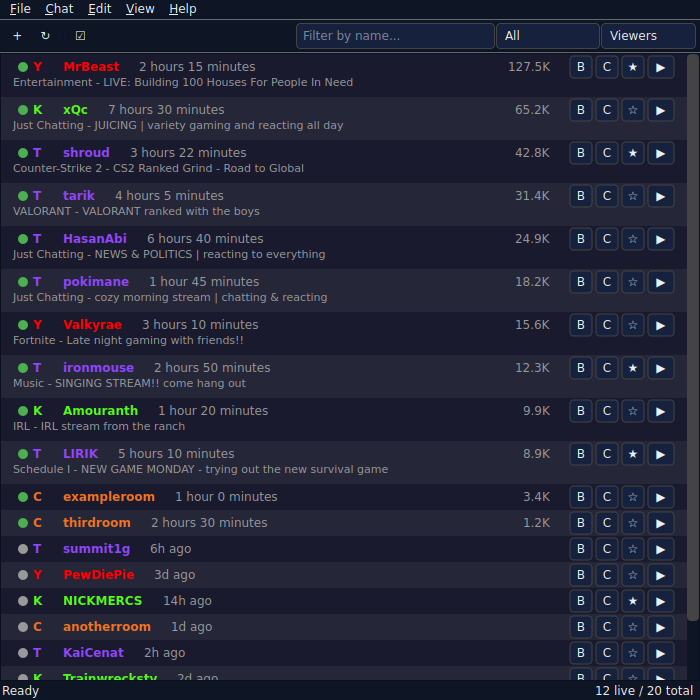
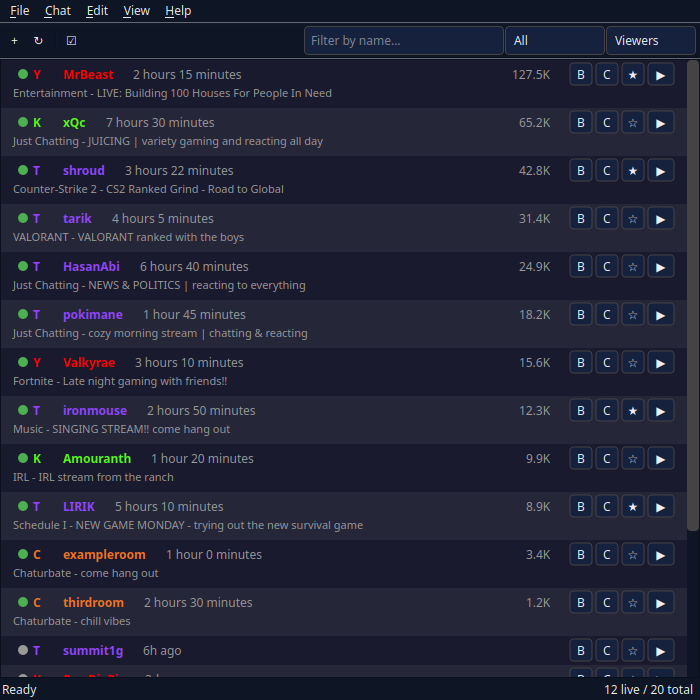
Fix inconsistent row heights: add title/game to Chaturbate sample channels

diff --git a/scripts/capture_screenshots.py b/scripts/capture_screenshots.py
@@ -99,7 +99,8 @@ def create_sample_data() -> list[tuple[Channel, Livestream]]:
         (
             Channel("exampleroom", StreamPlatform.CHATURBATE, "exampleroom"),
             Livestream(
-                channel=None, live=True, title="", viewers=3_412,
+                channel=None, live=True, title="come hang out",
+                game="Chaturbate", viewers=3_412,
                 start_time=now - timedelta(hours=1),
             ),
         ),
@@ -171,7 +172,8 @@ def create_sample_data() -> list[tuple[Channel, Livestream]]:
         (
             Channel("thirdroom", StreamPlatform.CHATURBATE, "thirdroom"),
             Livestream(
-                channel=None, live=True, title="", viewers=1_205,
+                channel=None, live=True, title="chill vibes",
+                game="Chaturbate", viewers=1_205,
                 start_time=now - timedelta(hours=2, minutes=30),
             ),
         ),
@@ -497,46 +499,52 @@ def main():
     window._initial_check_complete = True
     window.resize(700, 700)
     window.show()
-    window.refresh_stream_list()
-    # Force QListView to compute correct sizeHints after initial layout
-    window.stream_list.scheduleDelayedItemsLayout()
     qt_app.processEvents()
-    qt_app.processEvents()  # Second pass to finalize layout
+
+    def _force_relayout():
+        """Force full relayout: invalidate caches, scroll through all rows, re-layout."""
+        if window._stream_delegate:
+            window._stream_delegate.invalidate_size_cache()
+        window.refresh_stream_list()
+        qt_app.processEvents()
+        # Scroll to bottom and back to force sizeHint calculation for ALL rows
+        # (QListView only computes sizeHints for visible/scrolled-to rows)
+        sb = window.stream_list.verticalScrollBar()
+        sb.setValue(sb.maximum())
+        qt_app.processEvents()
+        sb.setValue(0)
+        qt_app.processEvents()
+        # Now invalidate and re-layout with all sizeHints properly computed
+        if window._stream_delegate:
+            window._stream_delegate.invalidate_size_cache()
+        window.stream_list.scheduleDelayedItemsLayout()
+        qt_app.processEvents()
+        window.refresh_stream_list()
+        qt_app.processEvents()
 
     def do_captures():
         print("\nCapturing screenshots...")
 
         # ── 1. Main window - dark theme ──
+        _force_relayout()
         capture_screenshot(window, "main-window-dark.png")
 
         # ── 2. Main window - light theme ──
         apply_theme(settings, ThemeMode.LIGHT, qt_app, window)
-        window.refresh_stream_list()
-        qt_app.processEvents()
+        _force_relayout()
         capture_screenshot(window, "main-window-light.png")
 
         # ── 3. Main window - compact mode (dark) ──
         apply_theme(settings, ThemeMode.DARK, qt_app, window)
         settings.ui_style = UIStyle.COMPACT_3
-        window.resize(360, 700)  # 900 * 0.4 = 360 (60% narrower)
-        if window._stream_delegate:
-            window._stream_delegate.invalidate_size_cache()
-        # Force QListView to re-query all sizeHints (clears internal layout cache)
-        window.stream_list.scheduleDelayedItemsLayout()
-        qt_app.processEvents()
-        window.refresh_stream_list()
-        qt_app.processEvents()
+        window.resize(360, 700)
+        _force_relayout()
         capture_screenshot(window, "compact-mode.png")
 
         # Reset to default style and size
         settings.ui_style = UIStyle.DEFAULT
         window.resize(700, 700)
-        if window._stream_delegate:
-            window._stream_delegate.invalidate_size_cache()
-        window.stream_list.scheduleDelayedItemsLayout()
-        qt_app.processEvents()
-        window.refresh_stream_list()
-        qt_app.processEvents()
+        _force_relayout()
 
         # ── 4–5. Chat window + animated GIF (dark theme) ──
         # Share the emote cache between static and animated captures
